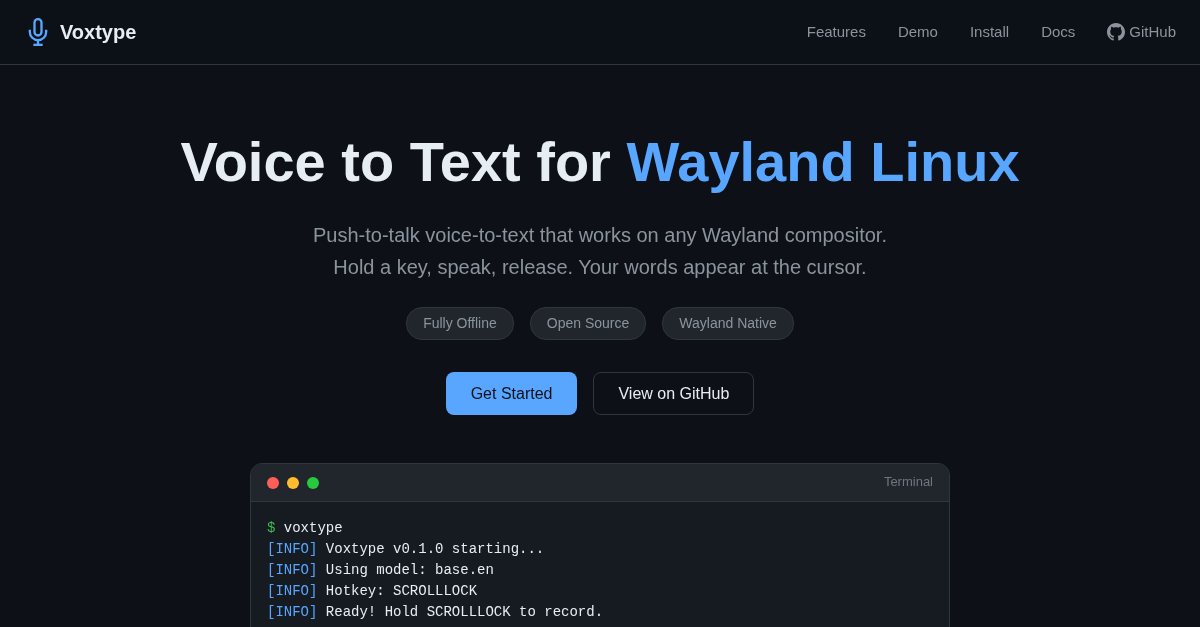
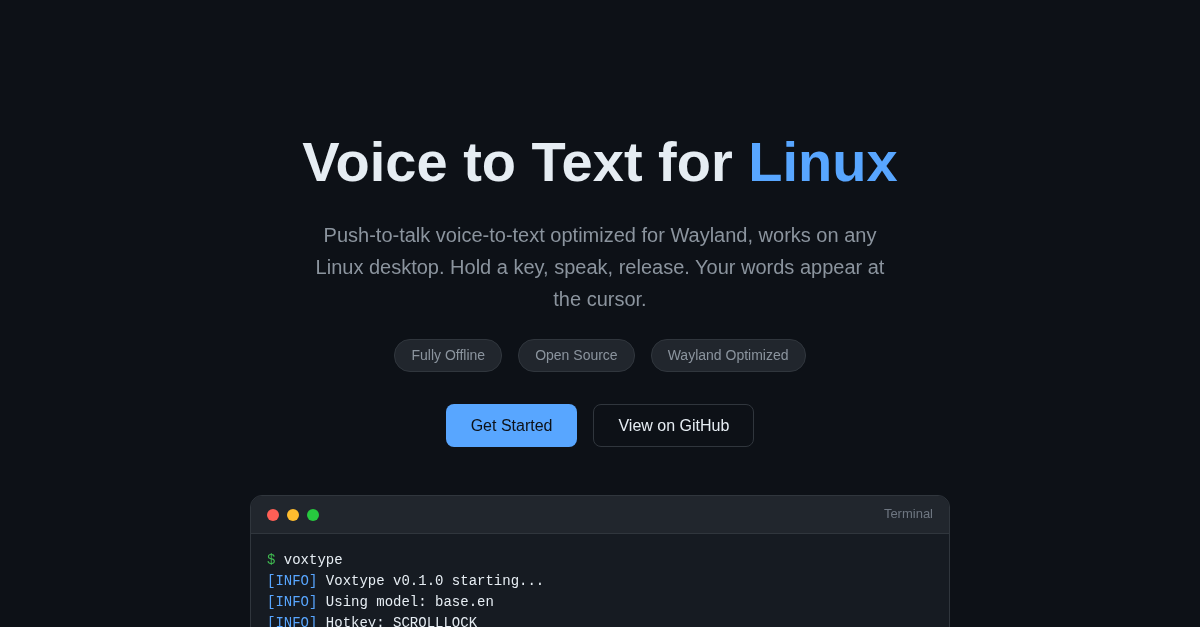
Update OG preview image with new Linux positioning

diff --git a/README.md b/README.md
@@ -1,6 +1,6 @@
 # Voxtype
 
-[![Voxtype - Voice to Text for Wayland Linux](website/images/og-preview.png)](https://voxtype.io)
+[![Voxtype - Voice to Text for Linux](website/images/og-preview.png)](https://voxtype.io)
 
 **[voxtype.io](https://voxtype.io)**
 
